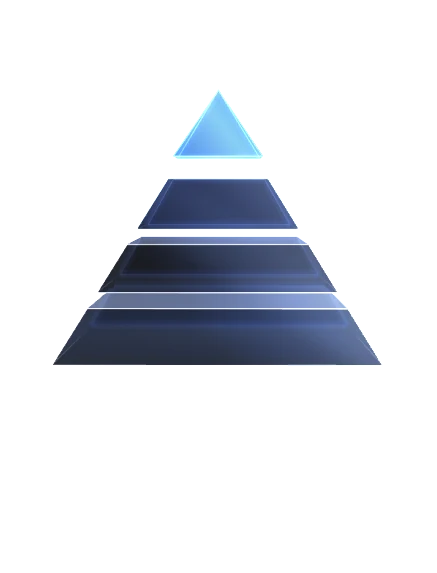
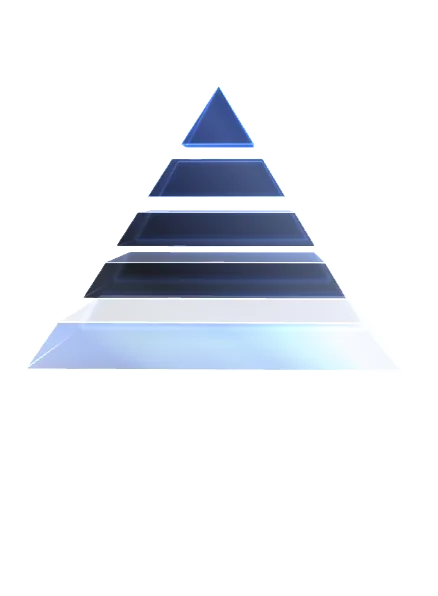
Piramide: poster de plano B com as 5 camadas (computador e celular) e checagem de WebGL antes do three.js, para o Safari ou aparelho sem WebGL cair na imagem parada sem erro no console

Changed region(s): [[0.0595, 0.1483, 0.8627, 0.6527]]

diff --git a/js/gl.js b/js/gl.js
@@ -208,12 +208,17 @@ function pyramid() {
     canvas.dataset.poster = '1';
     const img = new Image();
     img.className = 'pyr-poster'; img.alt = '';
-    img.src = canvas.clientWidth < 600 ? 'assets/img/pyr-poster-m.webp' : 'assets/img/pyr-poster.webp';
+    img.src = canvas.clientWidth < 600 ? 'assets/img/pyr-poster-m.webp?v=5' : 'assets/img/pyr-poster.webp?v=5';
     canvas.after(img);
     canvas.style.display = 'none';
     const lab = document.querySelector('.pyr-labels'); if (lab) lab.style.display = 'none';
   };
   let renderer;
+  // sem WebGL (bloqueado, desligado ou sem placa): vai direto para a imagem parada, sem erro no console
+  let gl = null;
+  try { const t = document.createElement('canvas'); gl = t.getContext('webgl2') || t.getContext('webgl'); } catch (e) { gl = null; }
+  if (!gl) { poster(); return; }
+  gl.getExtension('WEBGL_lose_context')?.loseContext();
   try {
     renderer = new THREE.WebGLRenderer({ canvas, antialias: true, alpha: true, powerPreference: 'high-performance' });
   } catch (e) { poster(); return; }

diff --git a/index.html b/index.html
@@ -447,6 +447,6 @@
 <script src="https://cdnjs.cloudflare.com/ajax/libs/gsap/3.12.5/gsap.min.js"></script>
 <script src="https://cdnjs.cloudflare.com/ajax/libs/gsap/3.12.5/ScrollTrigger.min.js"></script>
 <script src="js/main.js?v=1793927000"></script>
-<script type="module" src="js/gl.js?v=1793927000"></script>
+<script type="module" src="js/gl.js?v=1793927600"></script>
 </body>
 </html>
